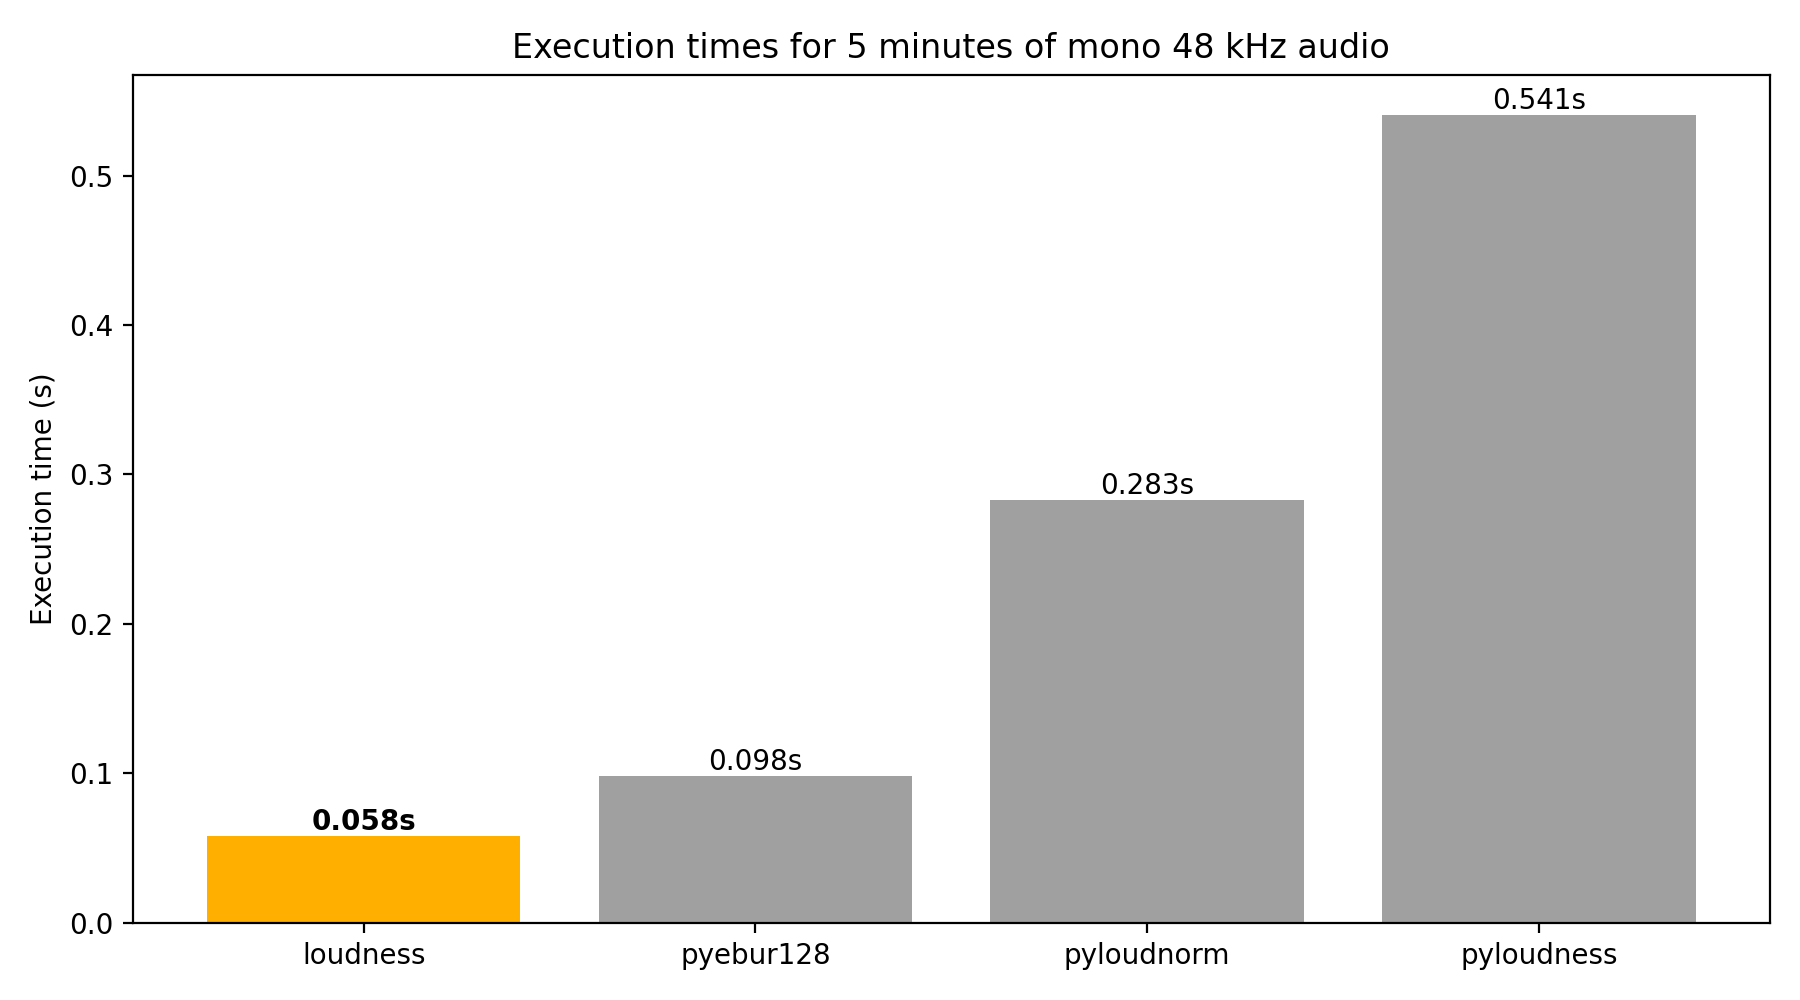
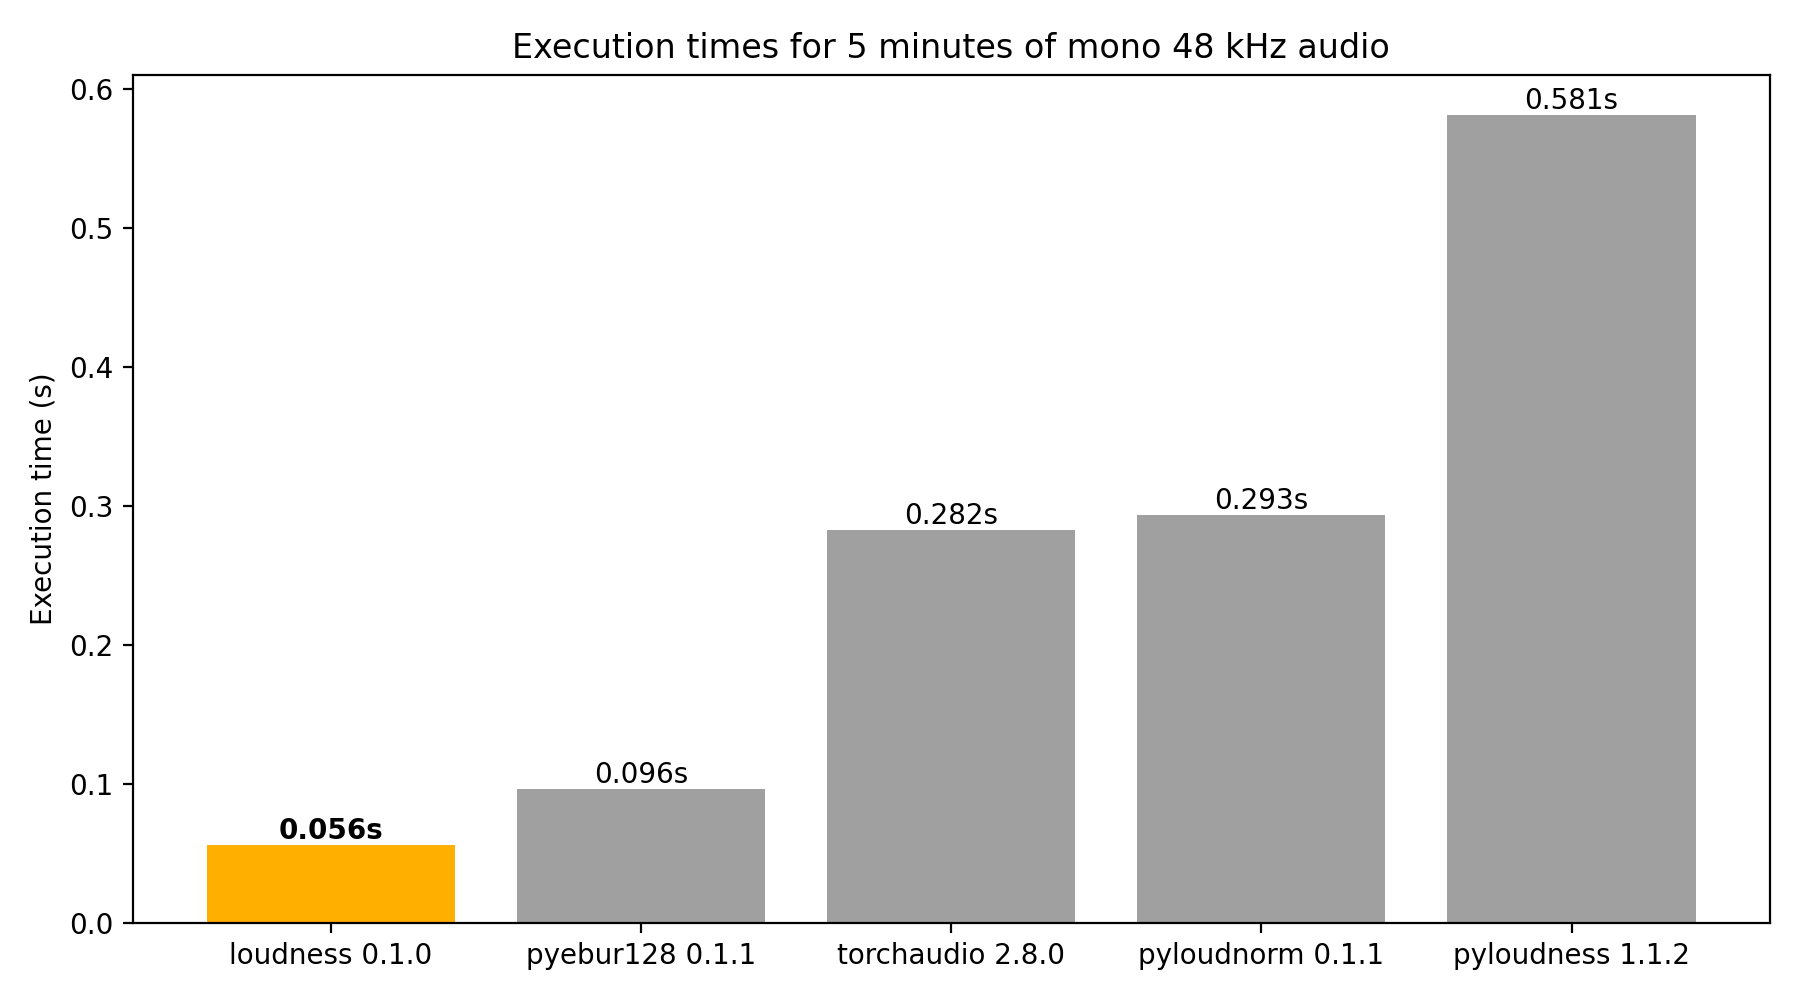
Add torchaudio to the perf benchmark

diff --git a/scripts/performance_benchmark.py b/scripts/performance_benchmark.py
@@ -1,15 +1,18 @@
+import importlib.metadata as metadata
 import os
 import time
 from pathlib import Path
 
 import loudness
+import matplotlib.pyplot as plt
 import numpy as np
 import pyebur128
 import pyloudness
 import pyloudnorm
-from pyebur128 import R128State, MeasurementMode
+import torch
+import torchaudio
+from pyebur128 import MeasurementMode, R128State
 from scipy.io.wavfile import write
-import matplotlib.pyplot as plt
 
 
 class timer(object):
@@ -49,6 +52,14 @@ class timer(object):
             print("{}: {:.3f} s".format(self.description, self.execution_time))
 
 
+def get_version(pkg_name, module):
+    try:
+        return metadata.version(pkg_name)
+    except metadata.PackageNotFoundError:
+        return getattr(module, "__version__", "unknown")
+
+
+
 if __name__ == "__main__":
     sample_rate = 48000
     audio = np.random.uniform(-1, 1, (48000 * 300,)).astype("float32")
@@ -76,16 +87,32 @@ if __name__ == "__main__":
         os.unlink("tmp.wav")
     times["pyloudness"] = t.execution_time
 
+    with timer("torchaudio") as t:
+        audio_tensor = torch.from_numpy(audio).unsqueeze(0)
+        lufs_torchaudio = torchaudio.functional.loudness(audio_tensor, sample_rate)
+    times["torchaudio"] = t.execution_time
+
     # Plot the results
-    methods = list(times.keys())
-    execution_times = list(times.values())
-    colors = ["#FFAF00" if m == "loudness" else "#A0A0A0" for m in methods]
+    versions = {
+        "loudness": get_version("loudness", loudness),
+        "pyebur128": get_version("pyebur128", pyebur128),
+        "pyloudnorm": get_version("pyloudnorm", pyloudnorm),
+        "pyloudness": get_version("pyloudness", pyloudness),
+        "torchaudio": (get_version("torchaudio", torchaudio)),
+    }
+
+    sorted_items = sorted(times.items(), key=lambda kv: kv[1])
+    methods, execution_times = zip(*sorted_items)
+    methods = [f"{method} {versions[method]}" for method in methods]
+
+    fastest_time = min(execution_times)
+    colors = []
+    for time in execution_times:
+        color = "#FFAF00" if time == fastest_time else "#A0A0A0"
+        colors.append(color)
 
     plt.figure(figsize=(9, 5))
     bars = plt.bar(methods, execution_times, color=colors)
-
-    fastest_time = min(execution_times)
-
     plt.ylabel("Execution time (s)")
     plt.title("Execution times for 5 minutes of mono 48 kHz audio")
 

diff --git a/README.md b/README.md
@@ -23,9 +23,9 @@ print(f"{lufs:.2f} LUFS")
 
 ## Performance
 
-loudness is significantly faster than the alternatives:
+loudness is significantly faster than the alternatives when running on CPU:
 
-![Execution time comparison: loudness: 0.058s, pyebur128: 0.098s, pyloudnorm: 0.283s, pyloudness: 0.541s](https://raw.githubusercontent.com/iver56/loudness/main/images/execution_time_comparison.png)
+![Execution time comparison: loudness 0.1.0: 0.056s, pyebur128 0.1.1: 0.096s, torchaudio 2.8.0: 0.282, pyloudnorm 0.1.1: 0.293s, pyloudness 1.1.2: 0.581s](https://raw.githubusercontent.com/iver56/loudness/main/images/execution_time_comparison.png)
 
 ## Changelog
 
